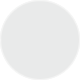
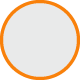
More changes to Nav

Changed region(s): [[0.0, 0.0, 1.0, 1.0]]

diff --git a/css/styles.css b/css/styles.css
@@ -144,7 +144,7 @@ box-shadow:0px 0px 10px #000000;
 	line-height: 80px;
 }
 #mainNavigationList li:hover{
-	background-image: url("../images/backgrounds/navBGCircle.png");
+	background-image: url("../images/backgrounds/navBGCircleHover.png");
 	background-repeat: no-repeat;
 }
 
@@ -190,7 +190,7 @@ padding-top:40px;
 	font-family: 'LeagueGothicRegular', arial;
 	line-height: 50px;
 	margin-top:35px;
-	background-color:#D34900;
+	background-color:#F9810B;
 	padding-top: 20px;
 	padding-left: 82px;
 	position: relative;
@@ -260,7 +260,8 @@ padding-top:40px;
 
 #subHeaderFullContainer{
 	height: 170px;
-	background-image: url("../images/backgrounds/blackPaper.png");
+	/*background-image: url("../images/backgrounds/blackPaper.png");*/
+	background:#000000;	
 	-moz-box-shadow:0px 0px 12px #000000;
 	-webkit-box-shadow:0px 0px 12px #000000;
 	box-shadow:0px 0px 12px #000000;
